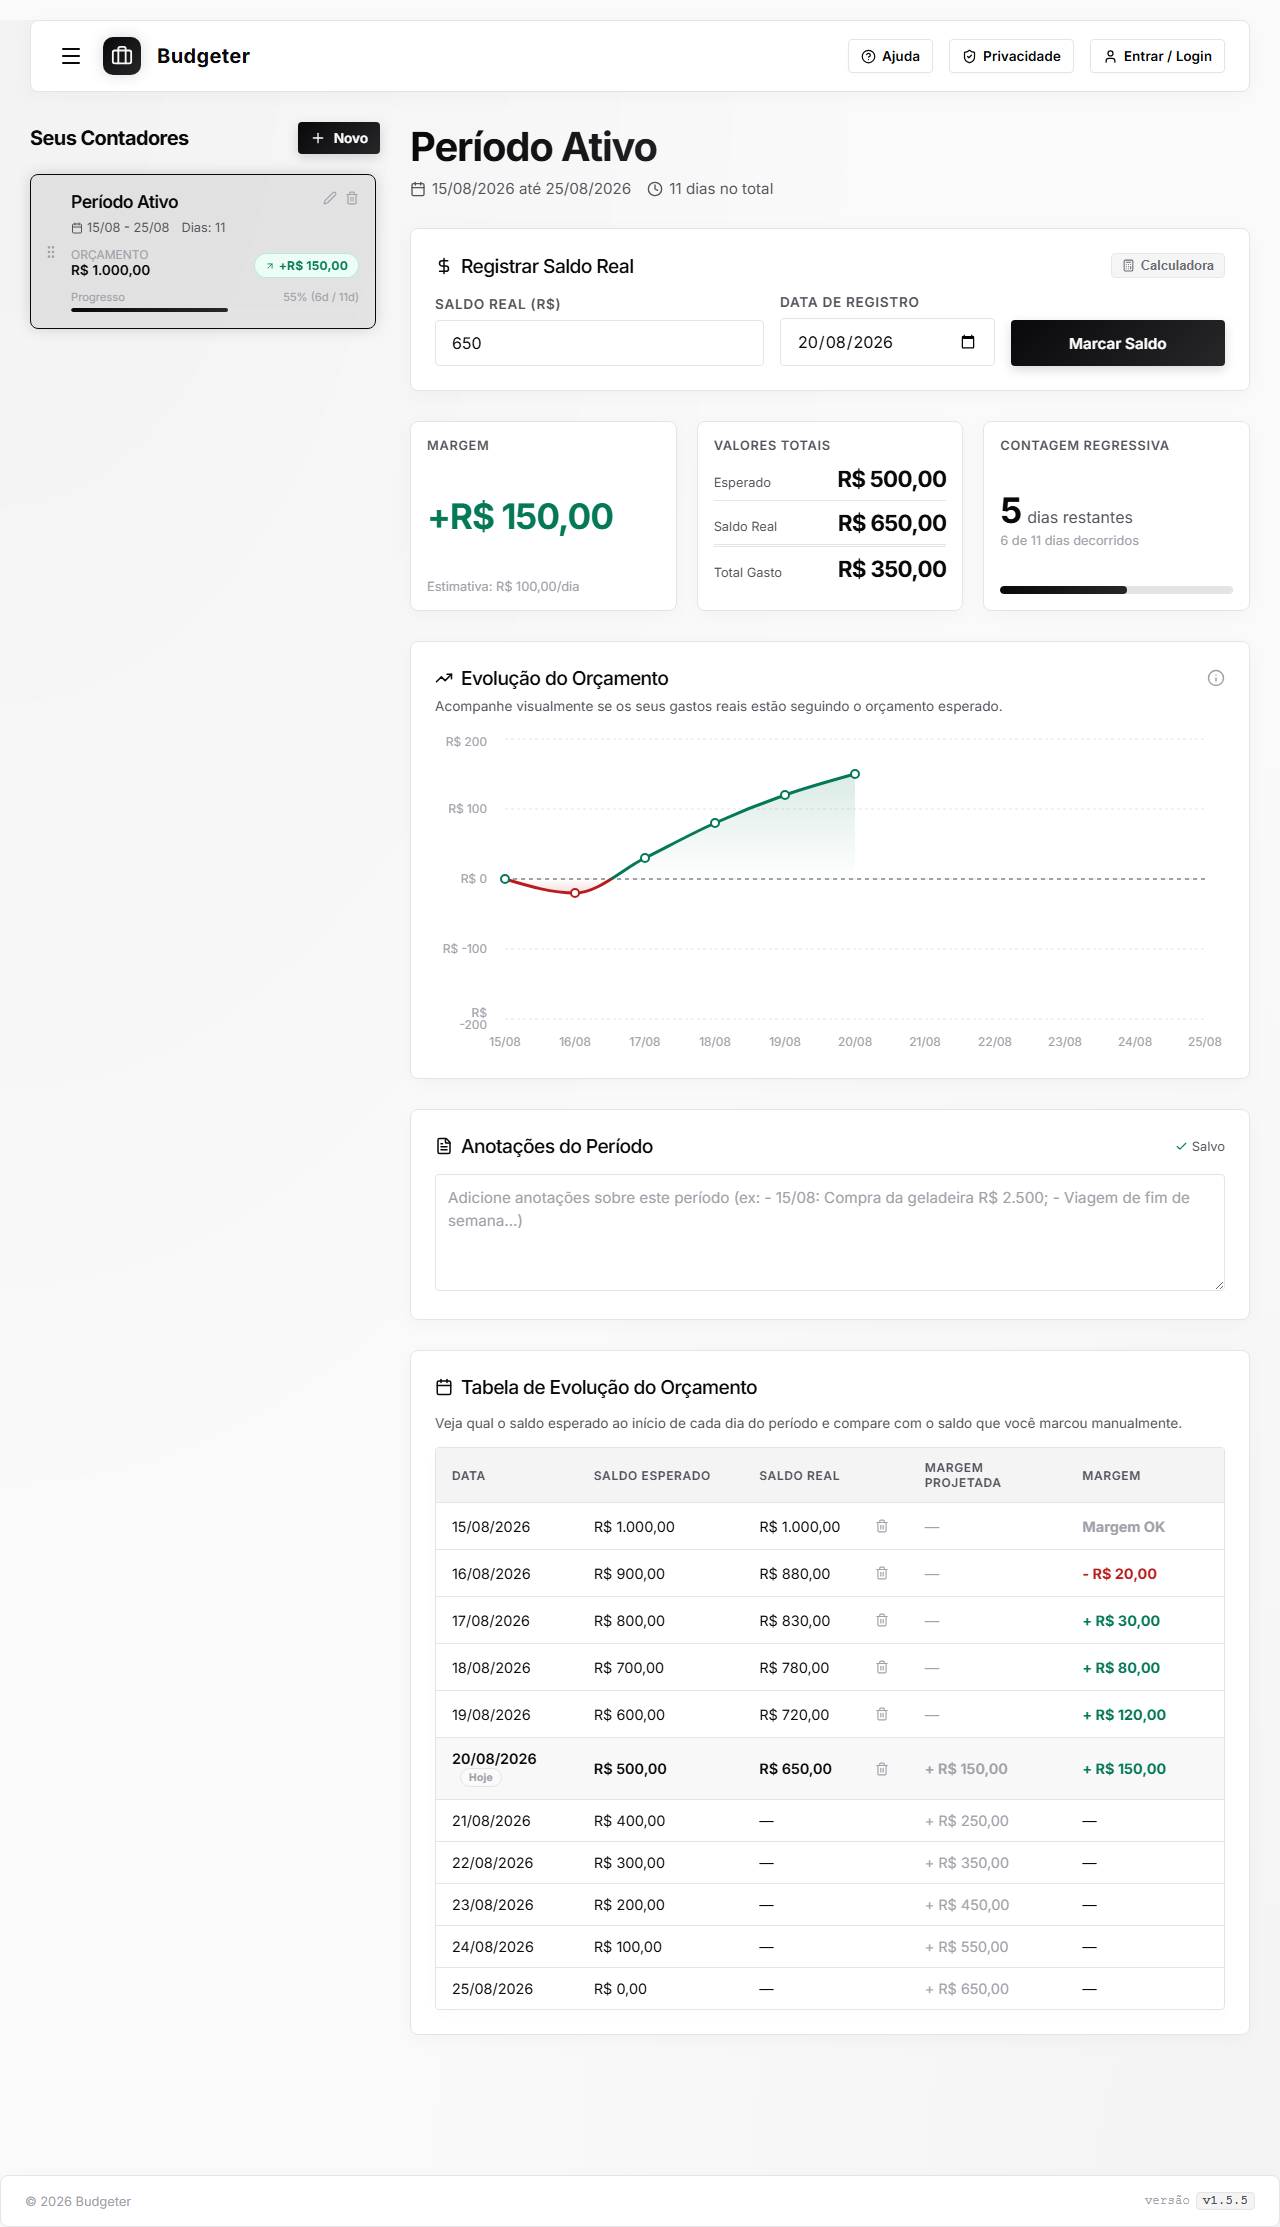
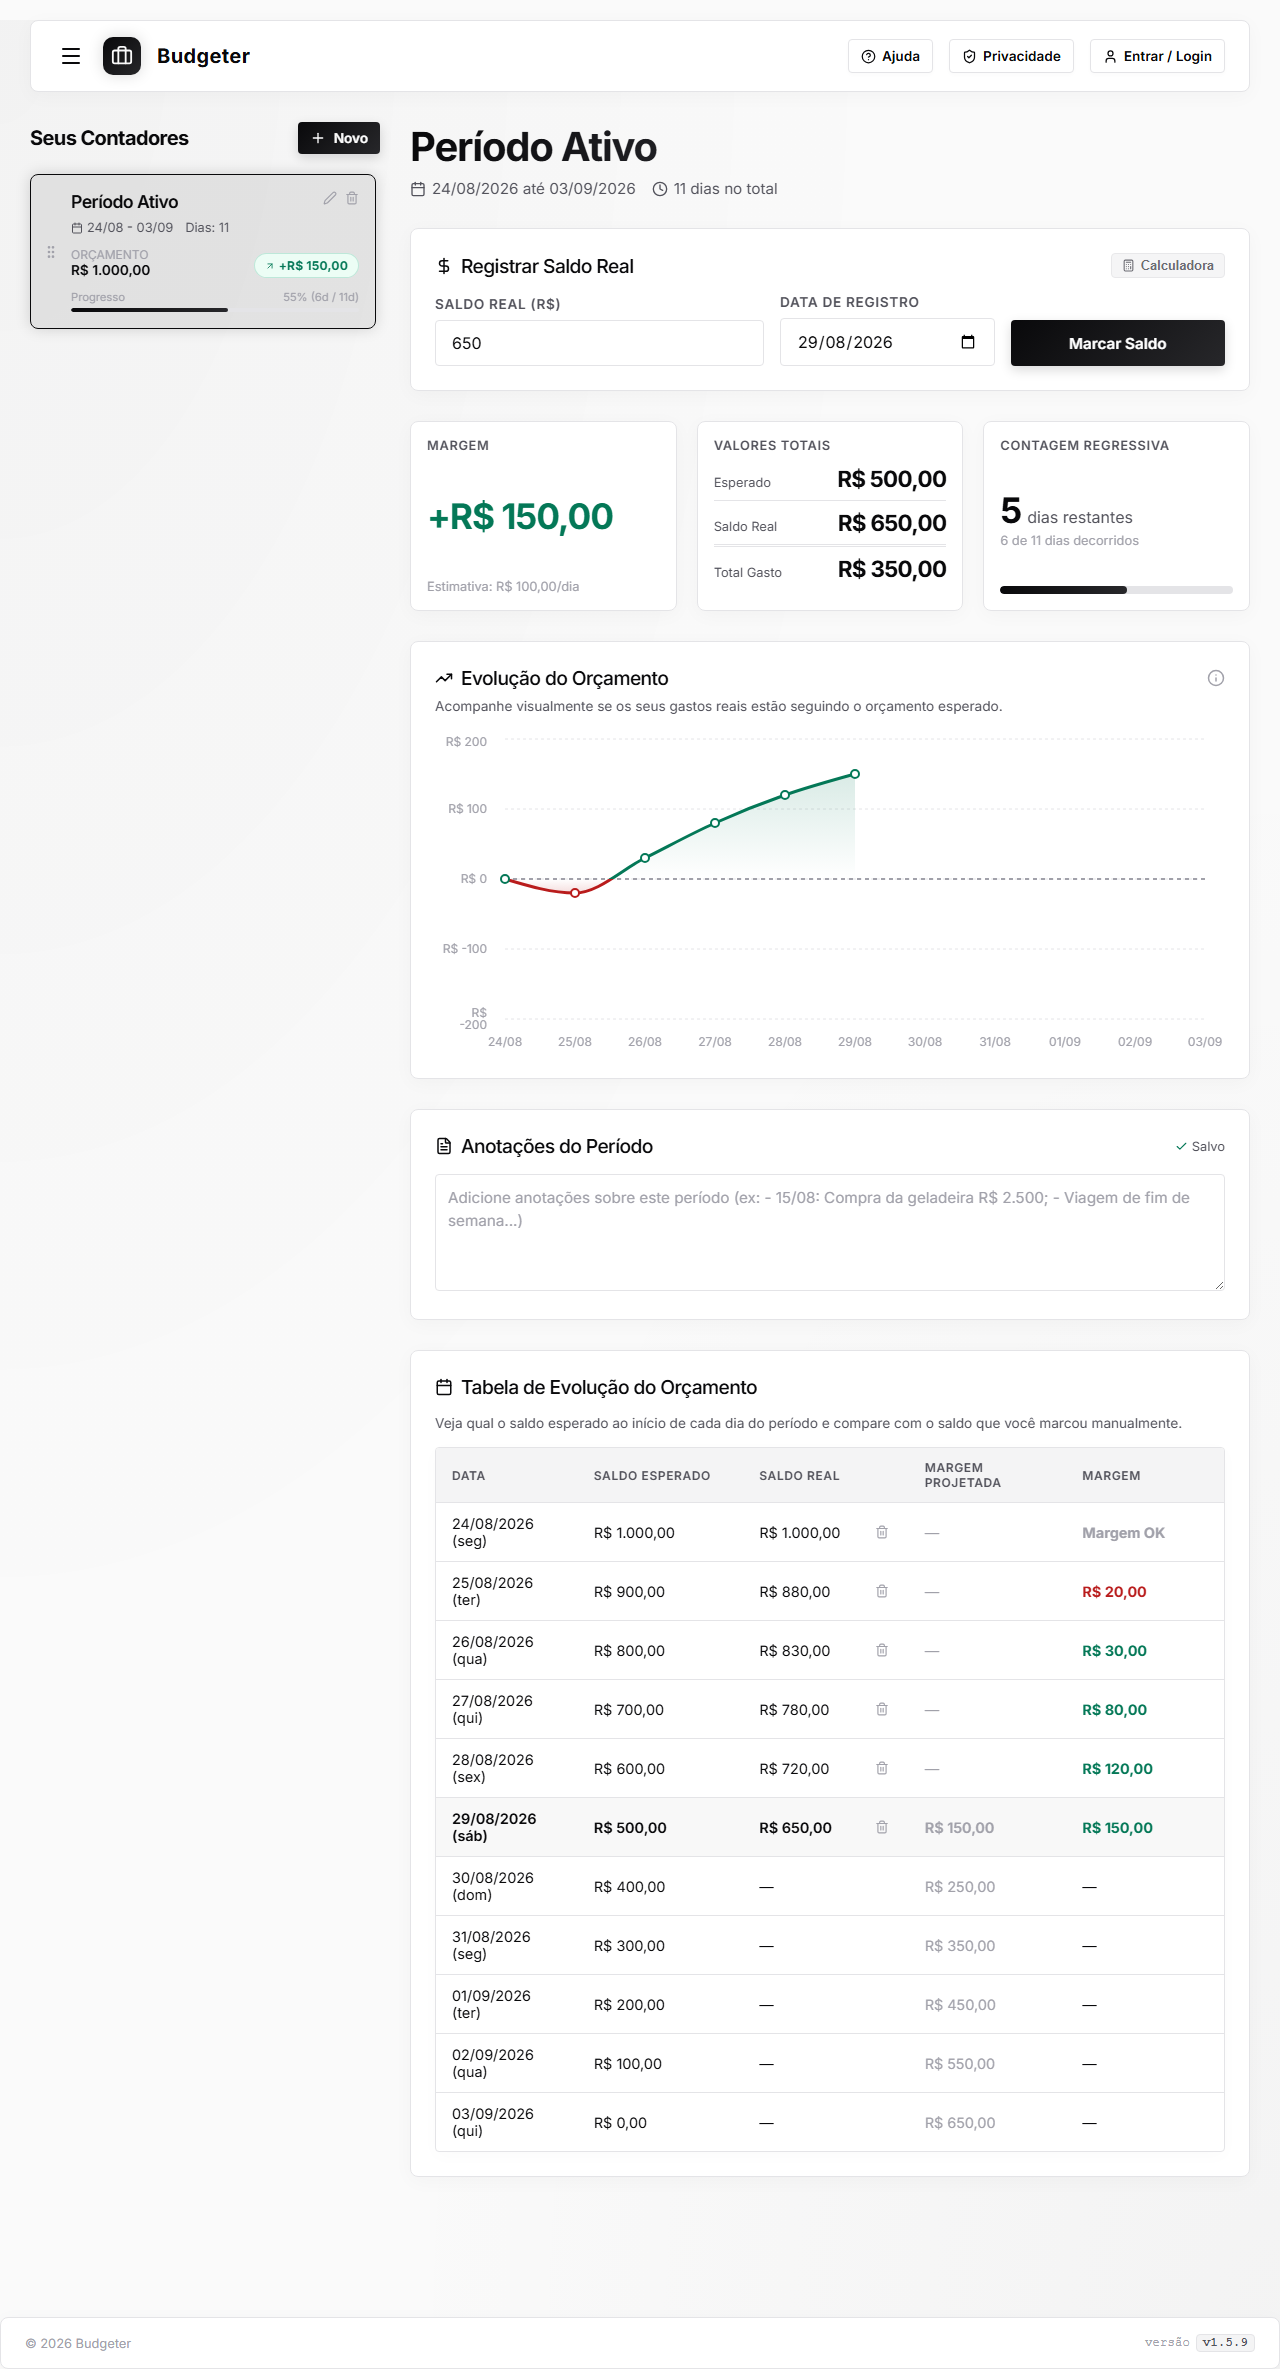
feat(table): adicionar dia da semana na coluna Data, remover badge Hoje e sinais +/- da coluna Margem [v1.5.10]

diff --git a/src/components/PeriodDetail.tsx b/src/components/PeriodDetail.tsx
@@ -212,6 +212,12 @@ export const PeriodDetail: React.FC<PeriodDetailProps> = ({
     return `${d}/${m}`;
   };
 
+  const getWeekdayShort = (dateStr: string) => {
+    const date = parseLocalDate(dateStr);
+    const weekdays = ['dom', 'seg', 'ter', 'qua', 'qui', 'sex', 'sáb'];
+    return weekdays[date.getDay()];
+  };
+
   // Prepare chart data (Gasto Zero Assumption)
   const chartData = [];
   const start = parseLocalDate(period.startDate);
@@ -1063,12 +1069,12 @@ export const PeriodDetail: React.FC<PeriodDetailProps> = ({
                     const diff = recordedBalanceForDay - expectedBalance;
                     const diffAbs = Math.abs(diff);
                     if (diff > 0.01) {
-                      diffTextFull = `+ ${formatCurrency(diffAbs)}`;
+                      diffTextFull = formatCurrency(diffAbs);
                       diffTextCompact = formatCurrencyNoCents(diffAbs);
                       diffColor = 'var(--color-above)';
                       diffWeight = '700';
                     } else if (diff < -0.01) {
-                      diffTextFull = `- ${formatCurrency(diffAbs)}`;
+                      diffTextFull = formatCurrency(diffAbs);
                       diffTextCompact = formatCurrencyNoCents(diffAbs);
                       diffColor = 'var(--color-below)';
                       diffWeight = '700';
@@ -1100,13 +1106,8 @@ export const PeriodDetail: React.FC<PeriodDetailProps> = ({
                   return (
                     <tr key={dateStr} className={isToday ? 'today-row' : ''}>
                       <td style={{ color: isToday ? 'var(--color-primary)' : 'inherit', fontWeight: isToday ? 600 : 'normal' }}>
-                        <span className="hide-mobile">{formatDate(dateStr)}</span>
-                        <span className="show-mobile">{formatShortDate(dateStr)}</span>
-                        {isToday && (
-                          <span className="badge badge-neutral today-badge hide-mobile" style={{ marginLeft: '8px', padding: '2px 8px', fontSize: '0.65rem', textTransform: 'none' }}>
-                            Hoje
-                          </span>
-                        )}
+                        <span className="hide-mobile">{formatDate(dateStr)} ({getWeekdayShort(dateStr)})</span>
+                        <span className="show-mobile">{formatShortDate(dateStr)} {getWeekdayShort(dateStr)}</span>
                       </td>
                       <td>
                         <span className="hide-mobile">{formatCurrency(expectedBalance)}</span>
